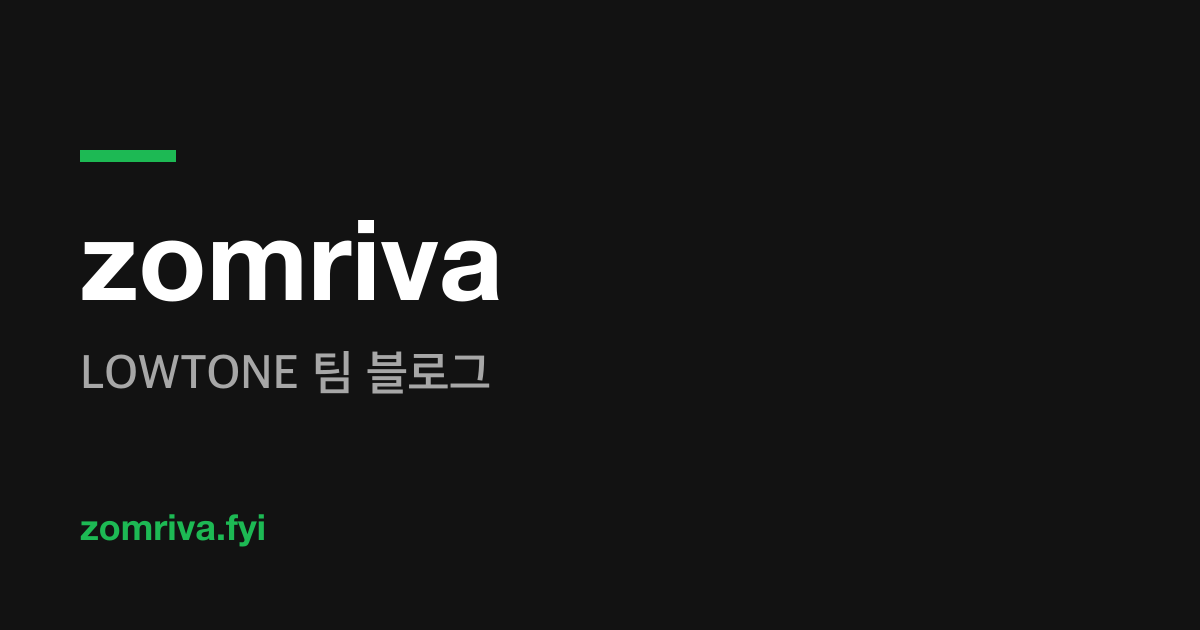
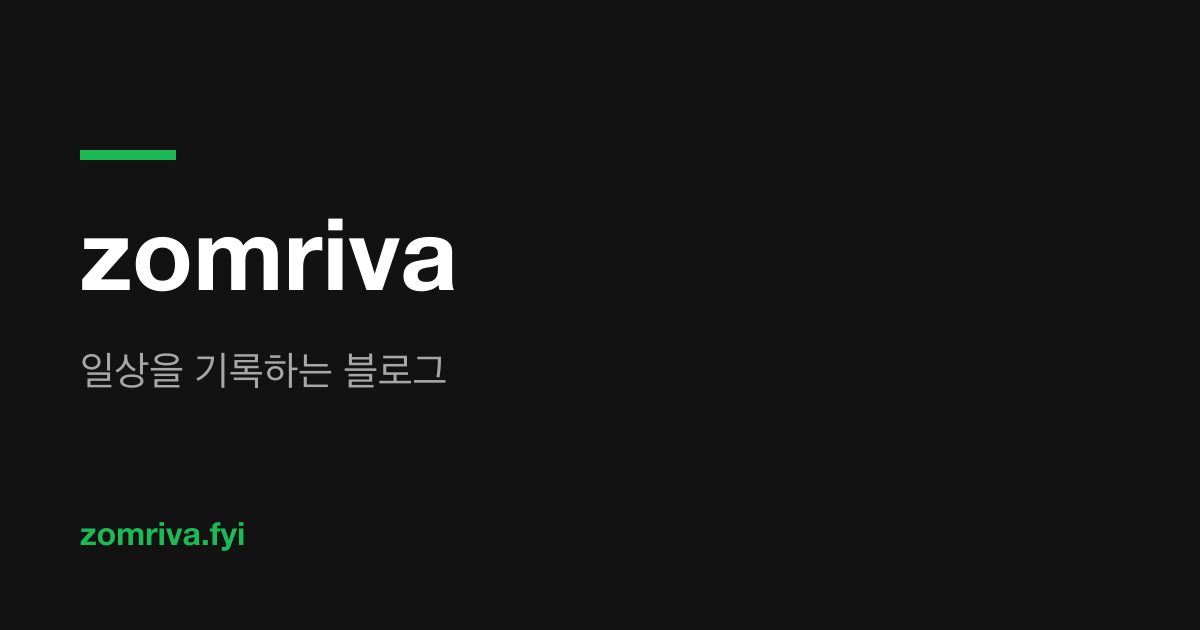
feat: 글별 대표 이미지(og:image) 지원, LOWTONE 문구 제거

diff --git a/src/config.ts b/src/config.ts
@@ -1,8 +1,8 @@
 export const SITE = {
   title: 'zomriva',
-  tagline: 'LOWTONE 팀 블로그',
-  description: '개발 · 디자인 · 일상 이야기를 기록하는 LOWTONE 팀 블로그.',
-  author: 'LOWTONE',
+  tagline: '일상을 기록하는 블로그',
+  description: '개발 · 디자인 · 일상 이야기를 기록하는 블로그.',
+  author: 'zomriva',
   locale: 'ko-KR',
   postsPerPage: 10,
   // 글별 이미지가 없을 때 쓰는 공유 이미지 (public/ 기준 경로)

diff --git a/src/content.config.ts b/src/content.config.ts
@@ -8,6 +8,8 @@ const posts = defineCollection({
     description: z.string(),
     pubDate: z.coerce.date(),
     updatedDate: z.coerce.date().optional(),
+    // 글 대표 이미지 (public/ 기준 경로). og:image · JSON-LD 에 쓰이고, 없으면 SITE.ogImage
+    image: z.string().optional(),
     category: z.string().default('일상'),
     tags: z.array(z.string()).default([]),
     featured: z.boolean().default(false),

diff --git a/src/content/posts/saju-maeul-neungmyeonseung-guide.md b/src/content/posts/saju-maeul-neungmyeonseung-guide.md
@@ -1,6 +1,7 @@
 ---
 title: '사주마을 능면승 총정리, 전 여덟 편 리포트 직접 받아보니'
 description: '사주마을 능면승 총정리. 컨셉, 이용 방법, 전 여덟 편 리포트 구성, 실제로 받아본 내용과 참고할 점까지.'
+image: /images/saju-maeul-neungmyeonseung-guide/01.jpg
 pubDate: 2026-11-05T10:20:00+09:00
 category: 일상
 tags: ['사주마을', '능면승', '능면승사주', '온라인사주', '사주총정리', '사주사이트추천']
